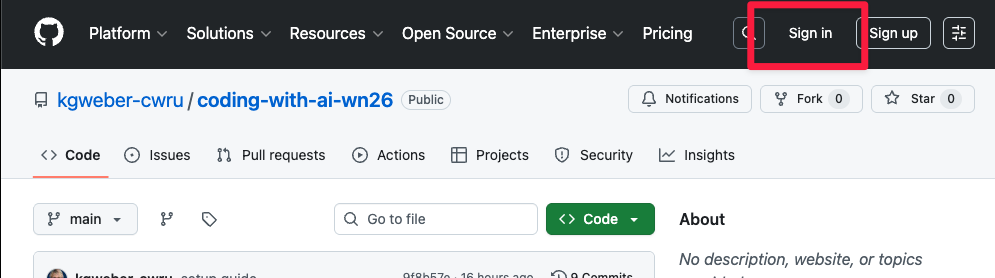
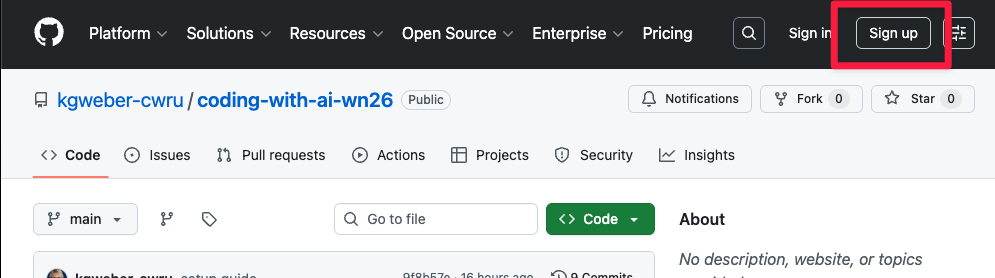
documentation

Changed region(s): [[0.7477, 0.0, 0.9658, 0.259]]

diff --git a/week-0/STUDENT-SETUP-GUIDE.md b/week-0/STUDENT-SETUP-GUIDE.md
@@ -27,14 +27,14 @@ This guide walks you through each step. **Estimated time: 30-40 minutes**
 - Verify your email address
 - **You now have a GitHub account!**
 
-*[INSERT IMAGE: Screenshot of github.com homepage with "Sign up" button highlighted]*
+![Github Sign-In](images/github_signin.png)
 
 ### Step 2: Navigate to the Course Repository
 - Open this link in your browser: [github.com/kgweber-cwru/coding-with-ai-wn26](https://github.com/kgweber-cwru/coding-with-ai-wn26)
 - You should see a folder-like structure with course materials
 - Look for the "week-0" folder
 
-*[INSERT IMAGE: Screenshot of the repository main page showing folder structure]*
+![Full view of repo](images/github_repo_screenshot.png)
 
 ### Step 3: Star the Repository (Optional)
 - Click the **"Star"** button (top-right of the repository)
@@ -63,8 +63,7 @@ You'll use your CWRU Google account to use Colab (same one you'll use for Drive 
 3. Click on **setup_verification.ipynb** (or any `.ipynb` file you want to open)
 4. You'll see a preview of the notebook in GitHub
 
-*[INSERT IMAGE: GitHub repository with week-0 folder and setup_verification.ipynb highlighted]*
-
+![Preview Notebook](images/view_workbook.png)
 ### Step 3: Open Notebook in Google Colab
 **Method 1: From GitHub (Recommended)**
 
@@ -72,13 +71,11 @@ In the GitHub preview of the `.ipynb` file, look for the **Colab badge/button** 
 - Click the **"Open in Colab"** button (or similar badge)
 - The notebook will automatically open in Google Colab in a new tab
 
-*[INSERT IMAGE: Colab badge in GitHub preview, showing "Open in Colab" button]*
-
 **Method 2: Manual Link**
 
 If you don't see the badge, you can construct the link:
 - Replace `github.com` with `colab.research.google.com/github` in the URL
-- Example: `https://colab.research.google.com/github/kgweber-cwru/coding-with-ai-wn26/blob/main/week-1-llm-basics-and-api/concepts.ipynb`
+- Example: `https://colab.research.google.com/github/kgweber-cwru/coding-with-ai-wn26/blob/main/week-0/setup_verification.ipynb`
 
 ### Step 4: Review the Notebook in Colab
 - The notebook is now open in Colab, but it's **read-only** (you can't edit it yet)
@@ -86,7 +83,12 @@ If you don't see the badge, you can construct the link:
 - Scroll through to see what you'll be working on
 - ✅ If you can read the code and explanations, you're all set!
 
-*[INSERT IMAGE: Notebook open in Google Colab, showing code cells]*
+![Colab Loaded](images/colab_loaded.png)
+
+
+‼ Important! You may see a banner offering you student pricing for Google products. 
+**DO NOT** take them up on this offer yet! We don't want that offer tangled up 
+with the student credits that come with this course
 
 ---
 
@@ -101,30 +103,28 @@ The GitHub notebook is the "master copy." When you open it, you're viewing the o
 3. Choose where in your Drive (or just accept the default: `Colab Notebooks` folder)
 4. Click **OK**
 
-*[INSERT IMAGE: File menu and "Save a copy in Drive" option highlighted]*
+![Save a Copy in Drive](images/save_a_copy_in_drive.png)*
 
 ### Step 2: Switch to Your Copy
 - A new tab will automatically open with **your personal copy**
-- Notice the file name changes to something like "Copy of concepts.ipynb"
+- Notice the file name changes to something like "Copy of setup_verification.ipynb"
 - **This is now YOUR notebook** - all your changes save automatically to your Drive
 - You can edit the code, add notes, run experiments
 
-*[INSERT IMAGE: New Colab window with file saved, showing "Copy of concepts.ipynb" in title]*
+![workbook copy](images/workbook_copy.png)
 
 ### Step 3: Rename Your Copy (Optional but Recommended)
-1. Click the filename at the top of Colab ("Copy of concepts")
+1. Click the filename at the top of Colab ("Copy of setup_verification.ipynb")
 2. Edit it to something clear like "Week1-Concepts-[YourName]"
 3. Press Enter to save the new name
 
-*[INSERT IMAGE: Colab filename editor showing rename in progress]*
 
 ### Step 4: Verify Your Copy is in Drive
 1. Go to [drive.google.com](https://drive.google.com) in a new tab
 2. Look for your notebook file (should be in "Colab Notebooks" folder or where you saved it)
 3. ✅ Your copy is safely stored in your Drive and will persist between sessions
 
-*[INSERT IMAGE: Google Drive showing saved Colab notebook]*
-
+![alt text](images/notebook_in_drive.png)
 ---
 
 ## Part 4: Connect Google Drive to Colab (For File Access)
